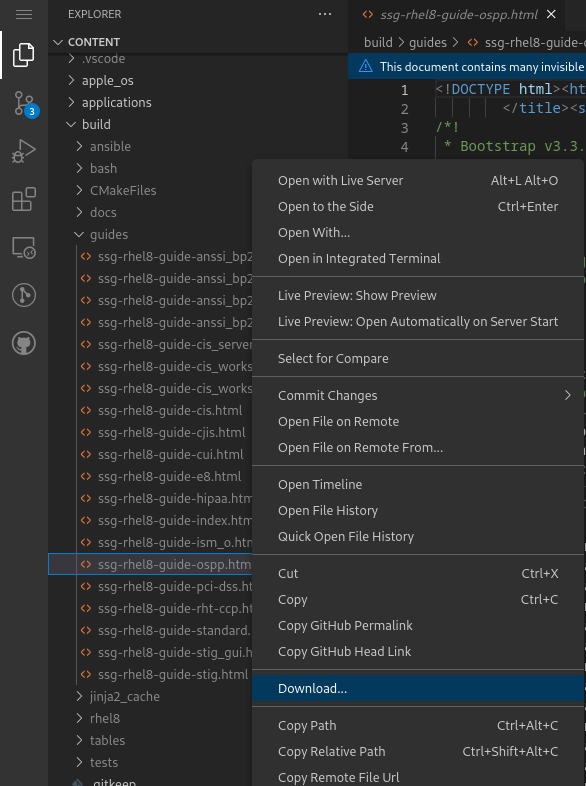
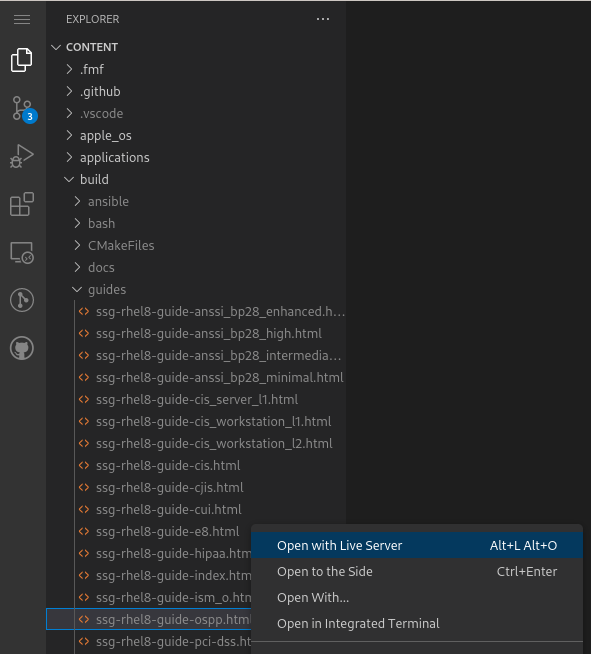
Update how to open the guide in the workshop.

diff --git a/docs/workshop/lab1_introduction.md b/docs/workshop/lab1_introduction.md
@@ -19,6 +19,8 @@ In Red Hat<sup>®</sup> Enterprise Linux<sup>®</sup> (RHEL), the SCAP
 content generated from `ComplianceAsCode` data is shipped as the
 `scap-security-guide` RPM package.
 
+## Goals
+
 -   Learn about the `ComplianceAsCode` project to understand what is
     where and what you can use the project for.
 
@@ -33,7 +35,15 @@ content generated from `ComplianceAsCode` data is shipped as the
 -   Learn where to find additional rule content, such as checks and
     remediations.
 
-Content used in this lab has been altered to increase its educative
+## Preconfigured Lab Environment
+
+- The `ComplianceAsCode` repository is already cloned.
+- The following required dependencies for the `ComplianceAsCode` content build are already installed using `yum install`:
+    - Generic build utilities: `cmake` and `make`
+    - Utilities for generating SCAP content: `openscap-scanner`
+    - Python dependencies for putting content together: `python3-pyyaml` and `python3-jinja2`
+
+IMPORTANT: Content used in this lab has been altered to increase its educative
 potential, and is therefore different from the content in
 ComplianceAsCode upstream repository.
 
@@ -69,12 +79,12 @@ profile) is `ssg-rhel8-guide-ospp.html`.
 1.  On the lab environment, you navigate to the `build/guides` folder.
 
 1.  Right click the `ssg-rhel8-guide-ospp.html` file and select
-    `Download` to download the HTML guide for the RHEL 8 OSPP profile.
+    `Open with Live Server` to preview the file. Note: Your browser can
+    block the pop-up. You must allow it when asked.
 
-    <!-- <img src="images/navigateospp.png" alt="1000" width="1000"/> -->
     ![OSPP Profile Guide](images/navigateospp.png)
 
-1. Open the downloaded HTML file in your browser.
+1. Viewing HTML file in your browser.
 
     1.  Rules are organized in a system of hierarchical groups. Take a
         look through this HTML guide to see the various rules of the
@@ -159,8 +169,8 @@ Interactive Session Timeout** rule entry.
         ![Completed build of security content for RHEL 8 in the Terminal
         window](images/0-02-post_build.png)
 
-1.  Download the guide `ssg-rhel8-guide-ospp.html` again from the `build/guides`
-    directory and open it again.
+1.  Refresh the tab with the guide `ssg-rhel8-guide-ospp.html` or right click
+    the file in `build/guides` and select `Open with Live Server`.
 
 1.  Review the fix. Expect to now see the fixed description, without the
     duplicate **Setting the TMOUT option in /etc/profile ensures that**
@@ -223,8 +233,8 @@ umask, and other settings. You will learn about parameterized rules by:
 
         1. `./build_product rhel8`
 
-        After the build finishes, download the HTML guide
-        `build/guides/ssg-rhel8-guide-ospp.html` and open it on your browser.
+        After the build finishes, refresh the tab with the guide `ssg-rhel8-guide-ospp.html`
+        or right click the file in `build/guides` and select `Open with Live Server`.
         Expect the variable value to be updated to `1800`.
 
 1.  What happens if you omit the variable definition?
@@ -258,9 +268,9 @@ umask, and other settings. You will learn about parameterized rules by:
             bring up the "save and exit" option. If you are asked about
             saving any changes, you probably do not want that, so enter `n`.
 
-    1.  Time to review the HTML guide - when downloading and reopening
-        `build/guides/ssg-rhel8-guide-ospp.html`, you can clearly see
-        the rule’s timeout indeed equals to 600.
+    1.  Time to review the HTML guide - refresh the tab with the guide
+        `ssg-rhel8-guide-ospp.html` or right click the file in `build/guides`
+        and select `Open with Live Server`. The rule's timeout indeed equals to 600.
 
 The set of values a variable can have is discrete - all values have to be
 defined in the variable file. Therefore, it is possible to specify
@@ -403,8 +413,9 @@ guide open, and see for yourself.
 
     1. `./build_product rhel8`
 
-1.  Once the build is done, download the guide again and open it. Expect the remediation to
-    contain the newly added comment.
+1.  Once the build is done, refresh the tab with the guide `ssg-rhel8-guide-ospp.html`
+    or right click the file in `build/guides` and select `Open with Live Server`.
+    Expect the remediation to contain the newly added comment.
 
 Congratulations, by completing this lab exercise, you became familiar
 with a comprehensive content creation tool and one of the largest open
